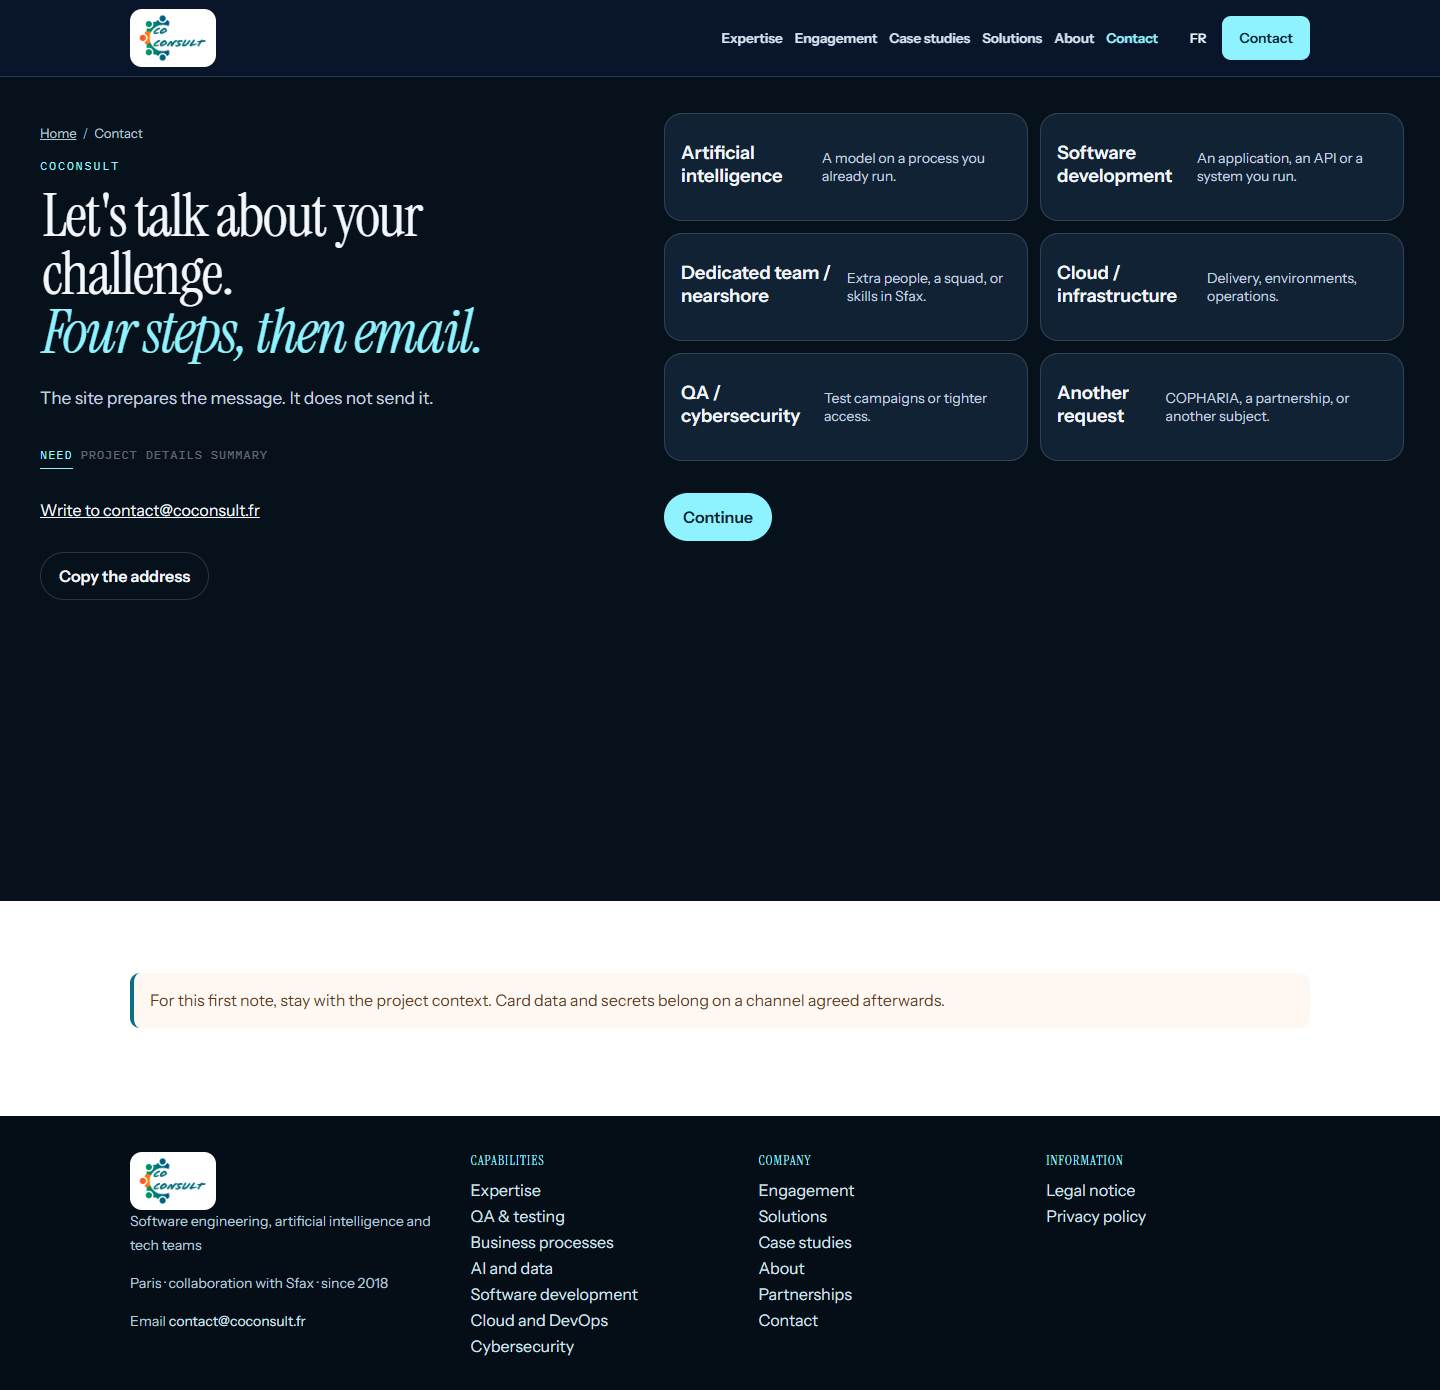
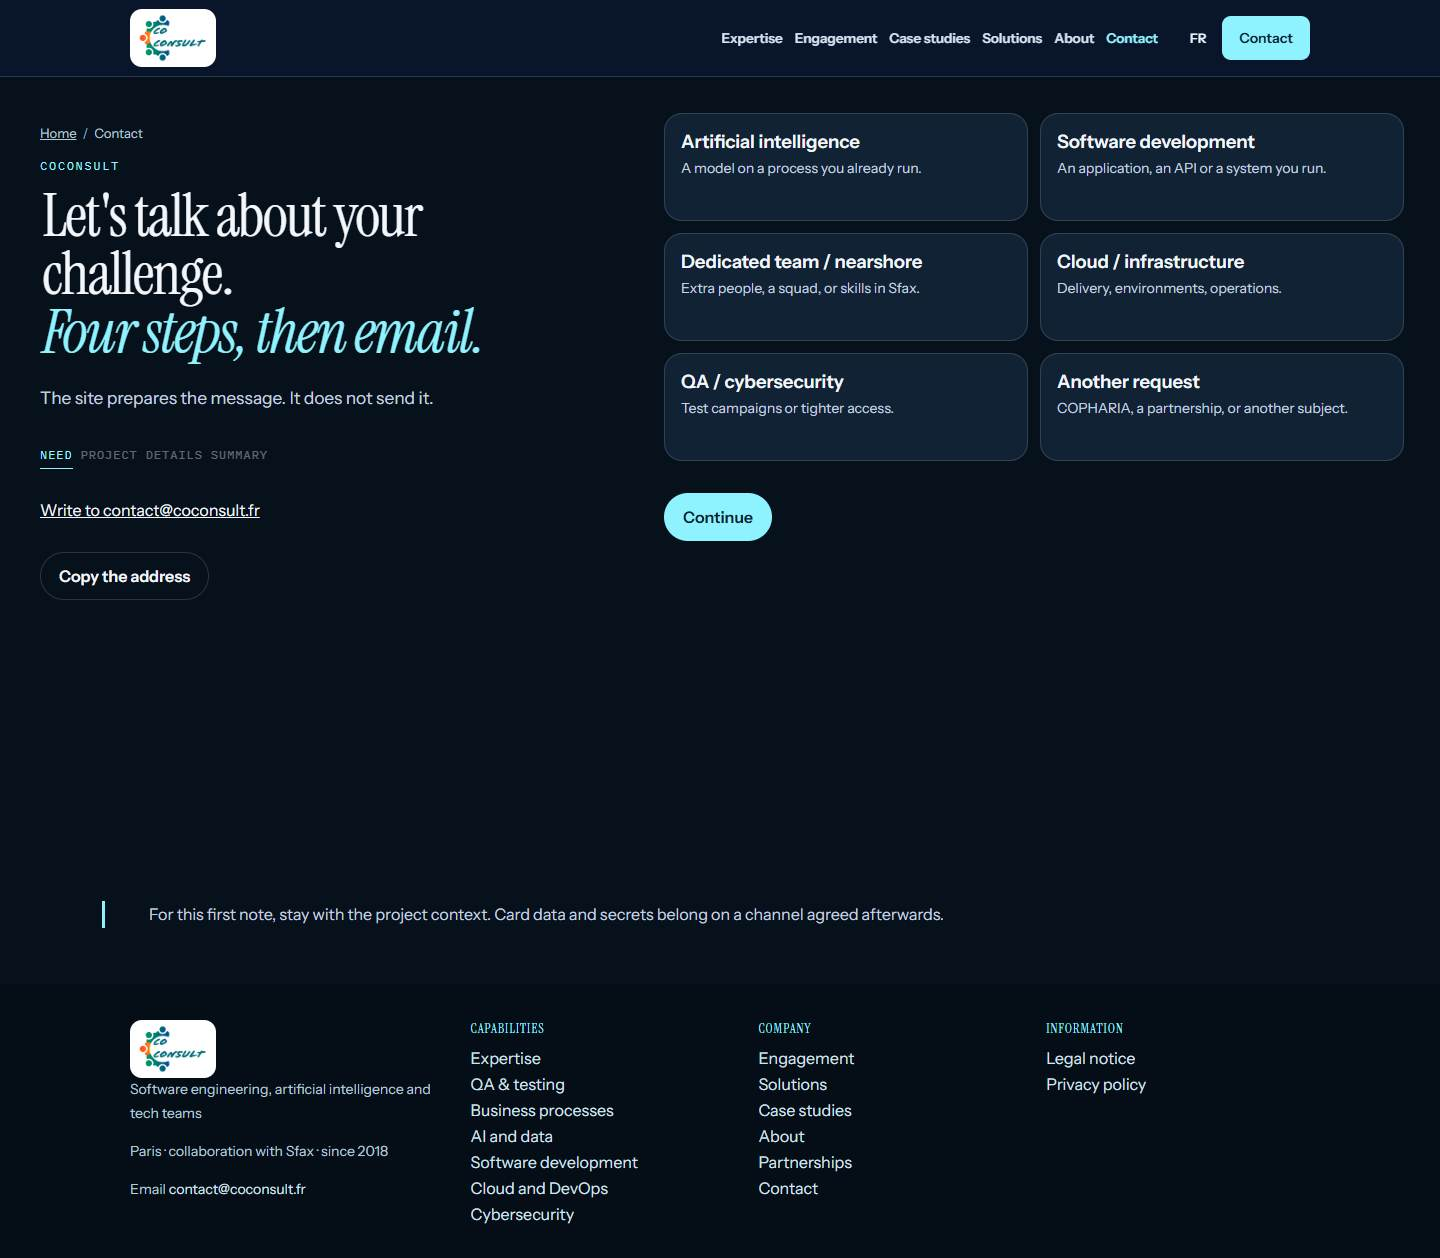
fix: stack each contact need above its description
The shared pill style was placing the title and the description on the same row.

diff --git a/src/styles/experience.css b/src/styles/experience.css
@@ -772,6 +772,10 @@ h1 .accent, .display .accent { display: block; font-style: italic; color: var(--
 .panel[hidden] { display: none; }
 .choice-grid { display: grid; grid-template-columns: 1fr 1fr; gap: 12px; }
 .choice {
+  display: flex;
+  flex-direction: column;
+  align-items: flex-start;
+  width: 100%;
   text-align: left;
   background: #102233;
   border: 1px solid var(--line);
